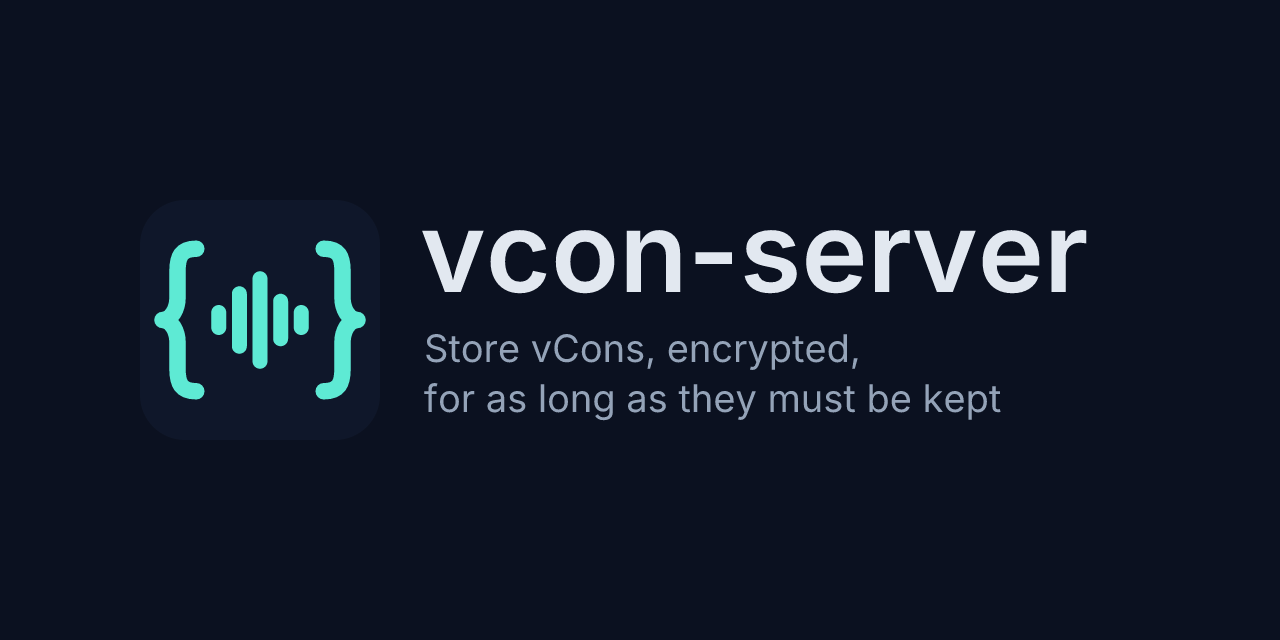
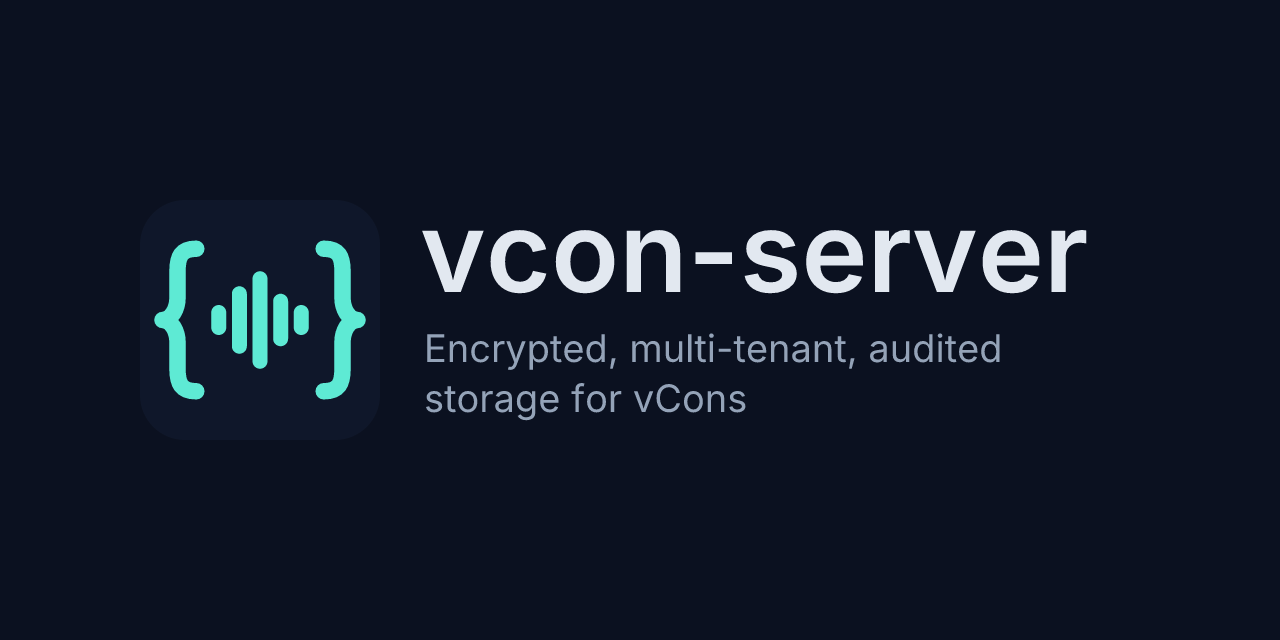
Name the whole server in the home page headline
The headline and the social images said "Store vCons, encrypted, for as
long as they must be kept", which describes retention only. They now say
"Encrypted, multi-tenant, audited storage for vCons", and the "What it is
for" paragraph lists the API, the encrypted store, tenant separation, the
audit record, retention and legal holds.

The images had their own copy of the line in scripts/icons.py, so a new
headline left them stale while icons.py --check still passed. icons.py now
reads the headline from website/content/_index.md and wraps it into two
lines, so --check fails until the images are redrawn. check-site.sh fails
when the page title's tagline is not the headline.

Changed region(s): [[0.3125, 0.5312, 0.7812, 0.6562]]

diff --git a/scripts/icons.py b/scripts/icons.py
@@ -2,9 +2,10 @@
 """Draws the logo files from assets/brand/mark.svg.
 
 Writes the favicon (SVG and ICO), the Apple touch icon, the social preview
-image and the two README lockups. The wordmark is Inter (SIL Open Font
-License) turned to outlines, so no font is embedded and none is needed to
-show it.
+image and the two README lockups. The social images carry the home page's
+headline, read from website/content/_index.md, so the two never differ.
+The wordmark is Inter (SIL Open Font License) turned to outlines, so no
+font is embedded and none is needed to show it.
 
 Needs resvg on PATH and the fontTools Python package. The two Inter files
 are kept in assets/brand/fonts (Inter 4.0, unchanged), so every machine
@@ -18,6 +19,7 @@ import struct
 import subprocess
 import sys
 import tempfile
+import tomllib
 from pathlib import Path
 
 from fontTools.pens.svgPathPen import SVGPathPen
@@ -27,13 +29,16 @@ from fontTools.ttLib import TTFont
 ROOT = Path(__file__).resolve().parent.parent
 MARK = ROOT / "assets/brand/mark.svg"
 STATIC = ROOT / "website/static"
+HOME = ROOT / "website/content/_index.md"
 
 TILE = "#0f172a"
 PAGE_DARK = "#0b1120"
 TEXT_LIGHT = "#0f172a"
 TEXT_DARK = "#e2e8f0"
 MUTED_DARK = "#94a3b8"
-TAGLINE = ("Store vCons, encrypted,", "for as long as they must be kept")
+TAGLINE_SIZE = 38
+TAGLINE_WIDTH = 700
+TAGLINE_LINES = 2
 
 
 def font(style):
@@ -51,6 +56,26 @@ def outline(face, text, size, x, baseline):
         glyphs[name].draw(TransformPen(pen, (scale, 0, 0, -scale, x, baseline)))
         x += glyphs[name].width * scale
     return pen.getCommands(), x
+
+
+def headline():
+    """The home page's headline, from the TOML front matter of _index.md."""
+    front = HOME.read_text().split("+++")[1]
+    return tomllib.loads(front)["extra"]["headline"]
+
+
+def wrap(face, text, size, width):
+    """The words of text in lines no wider than width pixels at size."""
+    lines = []
+    for word in text.split():
+        joined = f"{lines[-1]} {word}" if lines else word
+        if lines and outline(face, joined, size, 0, 0)[1] <= width:
+            lines[-1] = joined
+        else:
+            lines.append(word)
+    if len(lines) > TAGLINE_LINES or any(outline(face, line, size, 0, 0)[1] > width for line in lines):
+        sys.exit(f"the headline does not fit {TAGLINE_LINES} lines of {width} pixels: {text!r}")
+    return lines
 
 
 def mark_body():
@@ -80,8 +105,9 @@ def social(semibold, regular, width, height):
     """The mark, the name and the tagline, centred on the height."""
     left = (width - 1000) // 2
     words, _ = outline(semibold, "vcon-server", 112, left + 280, height // 2 - 28)
+    lines = wrap(regular, headline(), TAGLINE_SIZE, TAGLINE_WIDTH)
     tagline = "".join(
-        outline(regular, line, 38, left + 284, height // 2 + 42 + 50 * i)[0] for i, line in enumerate(TAGLINE)
+        outline(regular, line, TAGLINE_SIZE, left + 284, height // 2 + 42 + 50 * i)[0] for i, line in enumerate(lines)
     )
     return svg(
         width, height,

diff --git a/website/content/_index.md b/website/content/_index.md
@@ -2,8 +2,8 @@
 title = "vcon-server"
 description = "vcon-server stores vCons, the IETF format for conversation records, and returns them only to the keys allowed to see them. Each vCon is encrypted at rest under its own key, kept for its tenant's retention period, erased after it, and held past it when a legal hold says so. Every request is recorded."
 [extra]
-tagline = "store vCons, encrypted, for as long as they must be kept"
-headline = "Store vCons, encrypted, for as long as they must be kept"
+tagline = "encrypted, multi-tenant, audited storage for vCons"
+headline = "Encrypted, multi-tenant, audited storage for vCons"
 +++
 
 > **Status: in development, not yet for production.** The store, the HTTP API,
@@ -21,8 +21,8 @@ and much of it must be kept for a fixed time and then destroyed, unless a
 court says otherwise.
 
 vcon-server is the place a producer sends vCons to and the place they are read
-back from. It does one job: keep them safe, for exactly as long as they must be
-kept.
+back from: an HTTP API over an encrypted store, with tenants kept apart, every
+request recorded, and retention periods and legal holds applied to each vCon.
 
 ## What it guarantees
 

diff --git a/assets/brand/README.md b/assets/brand/README.md
@@ -12,9 +12,10 @@ so no font is embedded.
 | `social-preview.png` | The repository's social preview, 1280 by 640. |
 
 The site's `favicon.svg`, `favicon.ico`, `apple-touch-icon.png` and
-`og-image.png` in `website/static/` are drawn by the same script. After
-changing `mark.svg`, run `python3 scripts/icons.py`; `--check` says whether
-any file is out of date. It needs `resvg` and the Python `fontTools` package
+`og-image.png` in `website/static/` are drawn by the same script. The two
+social images carry the home page's headline, read from `headline` in
+`website/content/_index.md`. After changing `mark.svg` or the headline, run
+`python3 scripts/icons.py`; `--check` says whether any file is out of date. It needs `resvg` and the Python `fontTools` package
 pinned in `scripts/icons-requirements.txt`; CI runs the check on every push.
 `fonts/` holds the two Inter 4.0 files the wordmark is drawn from, unchanged
 from the Inter release, under the SIL Open Font License (`fonts/OFL.txt`).
